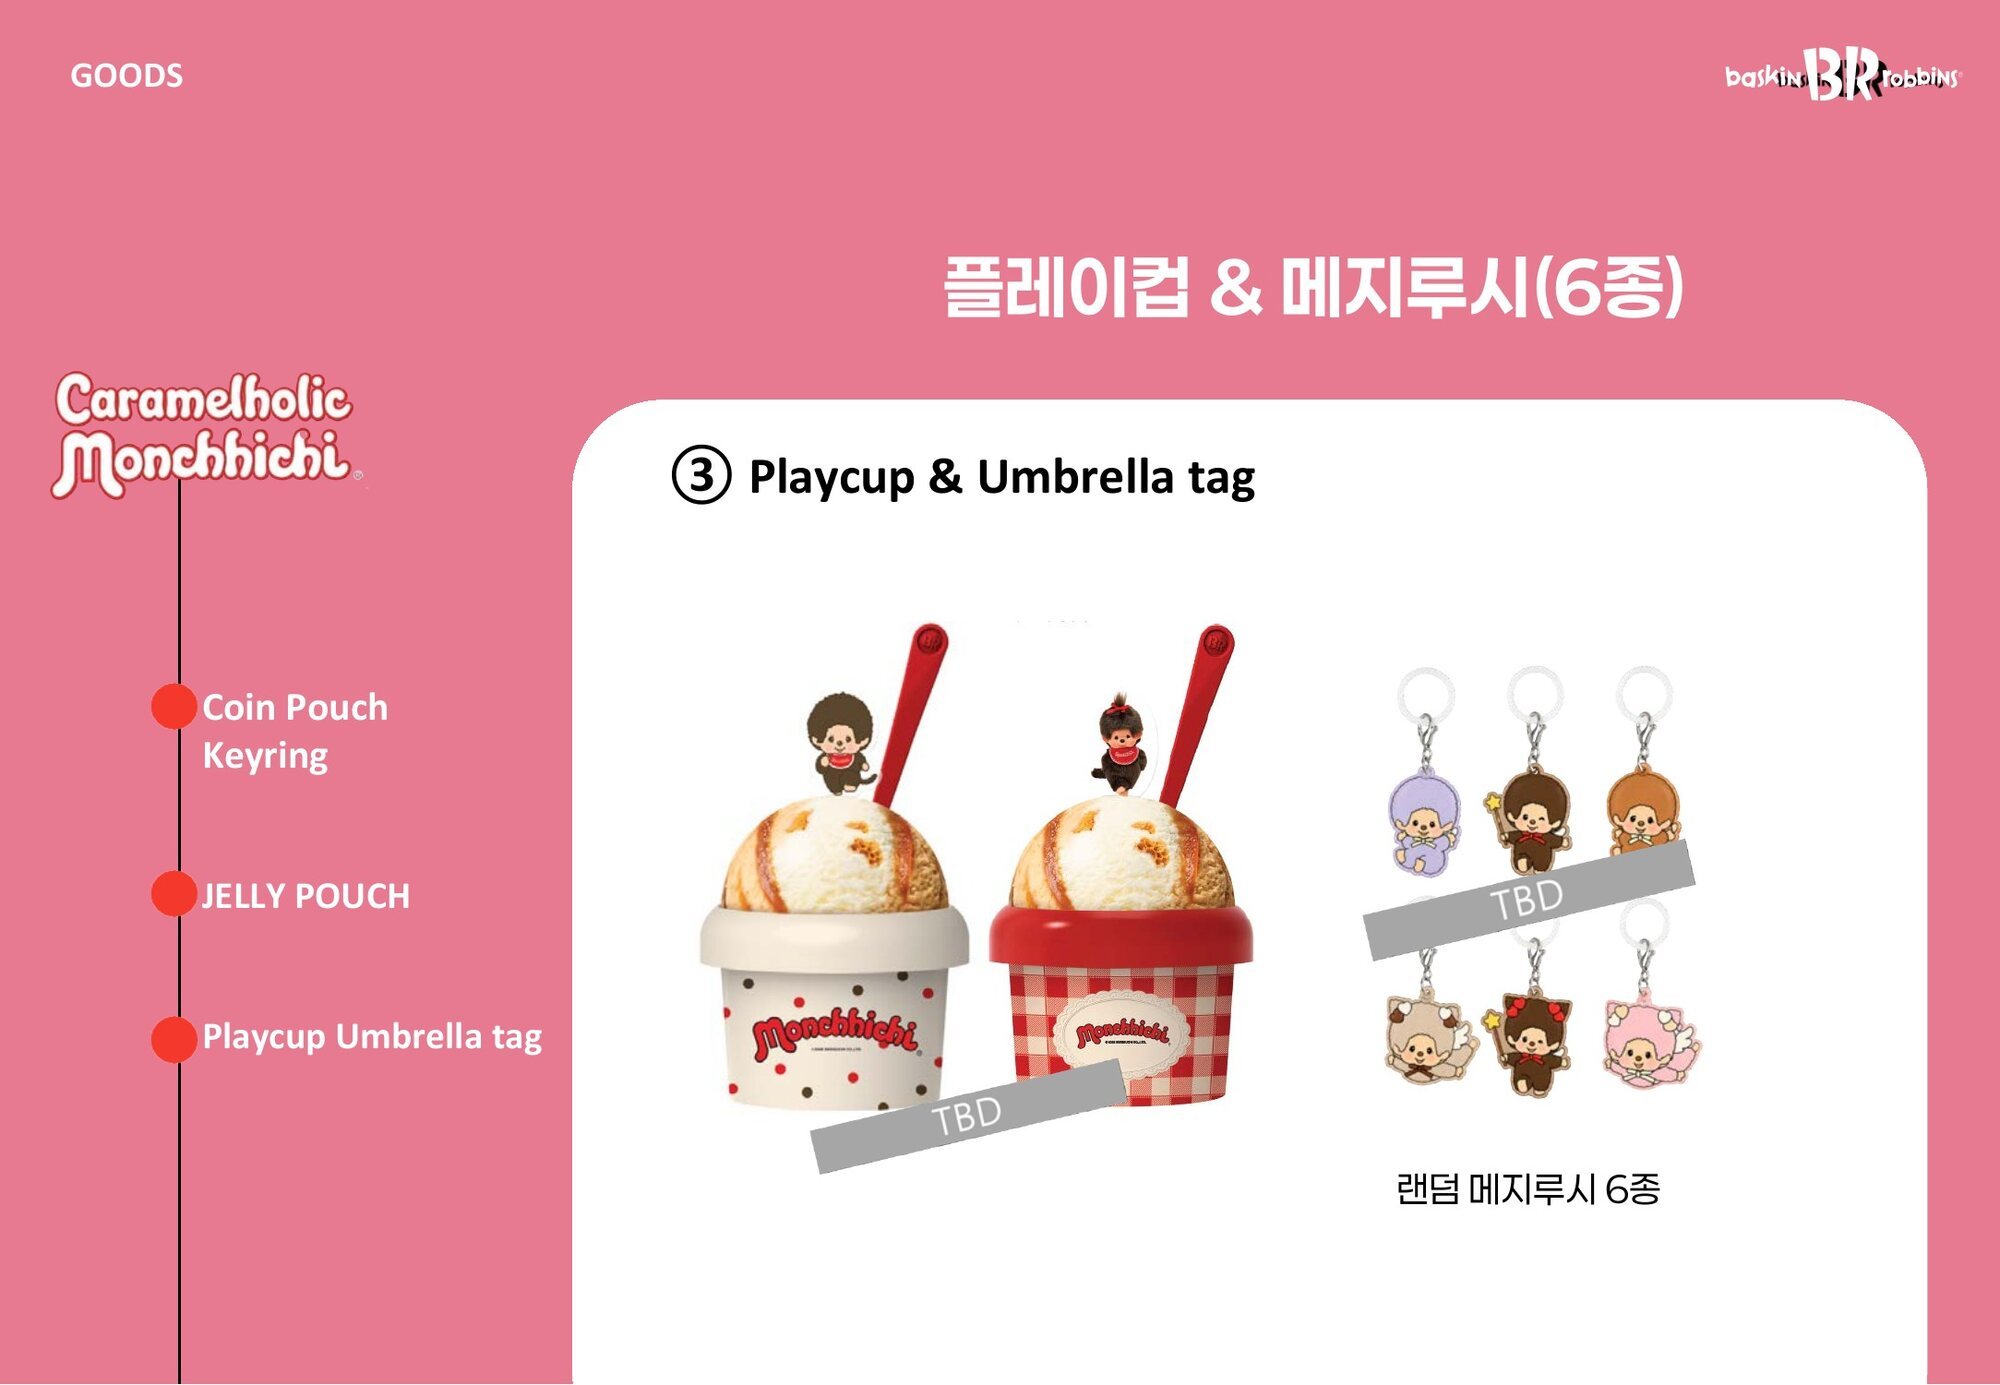
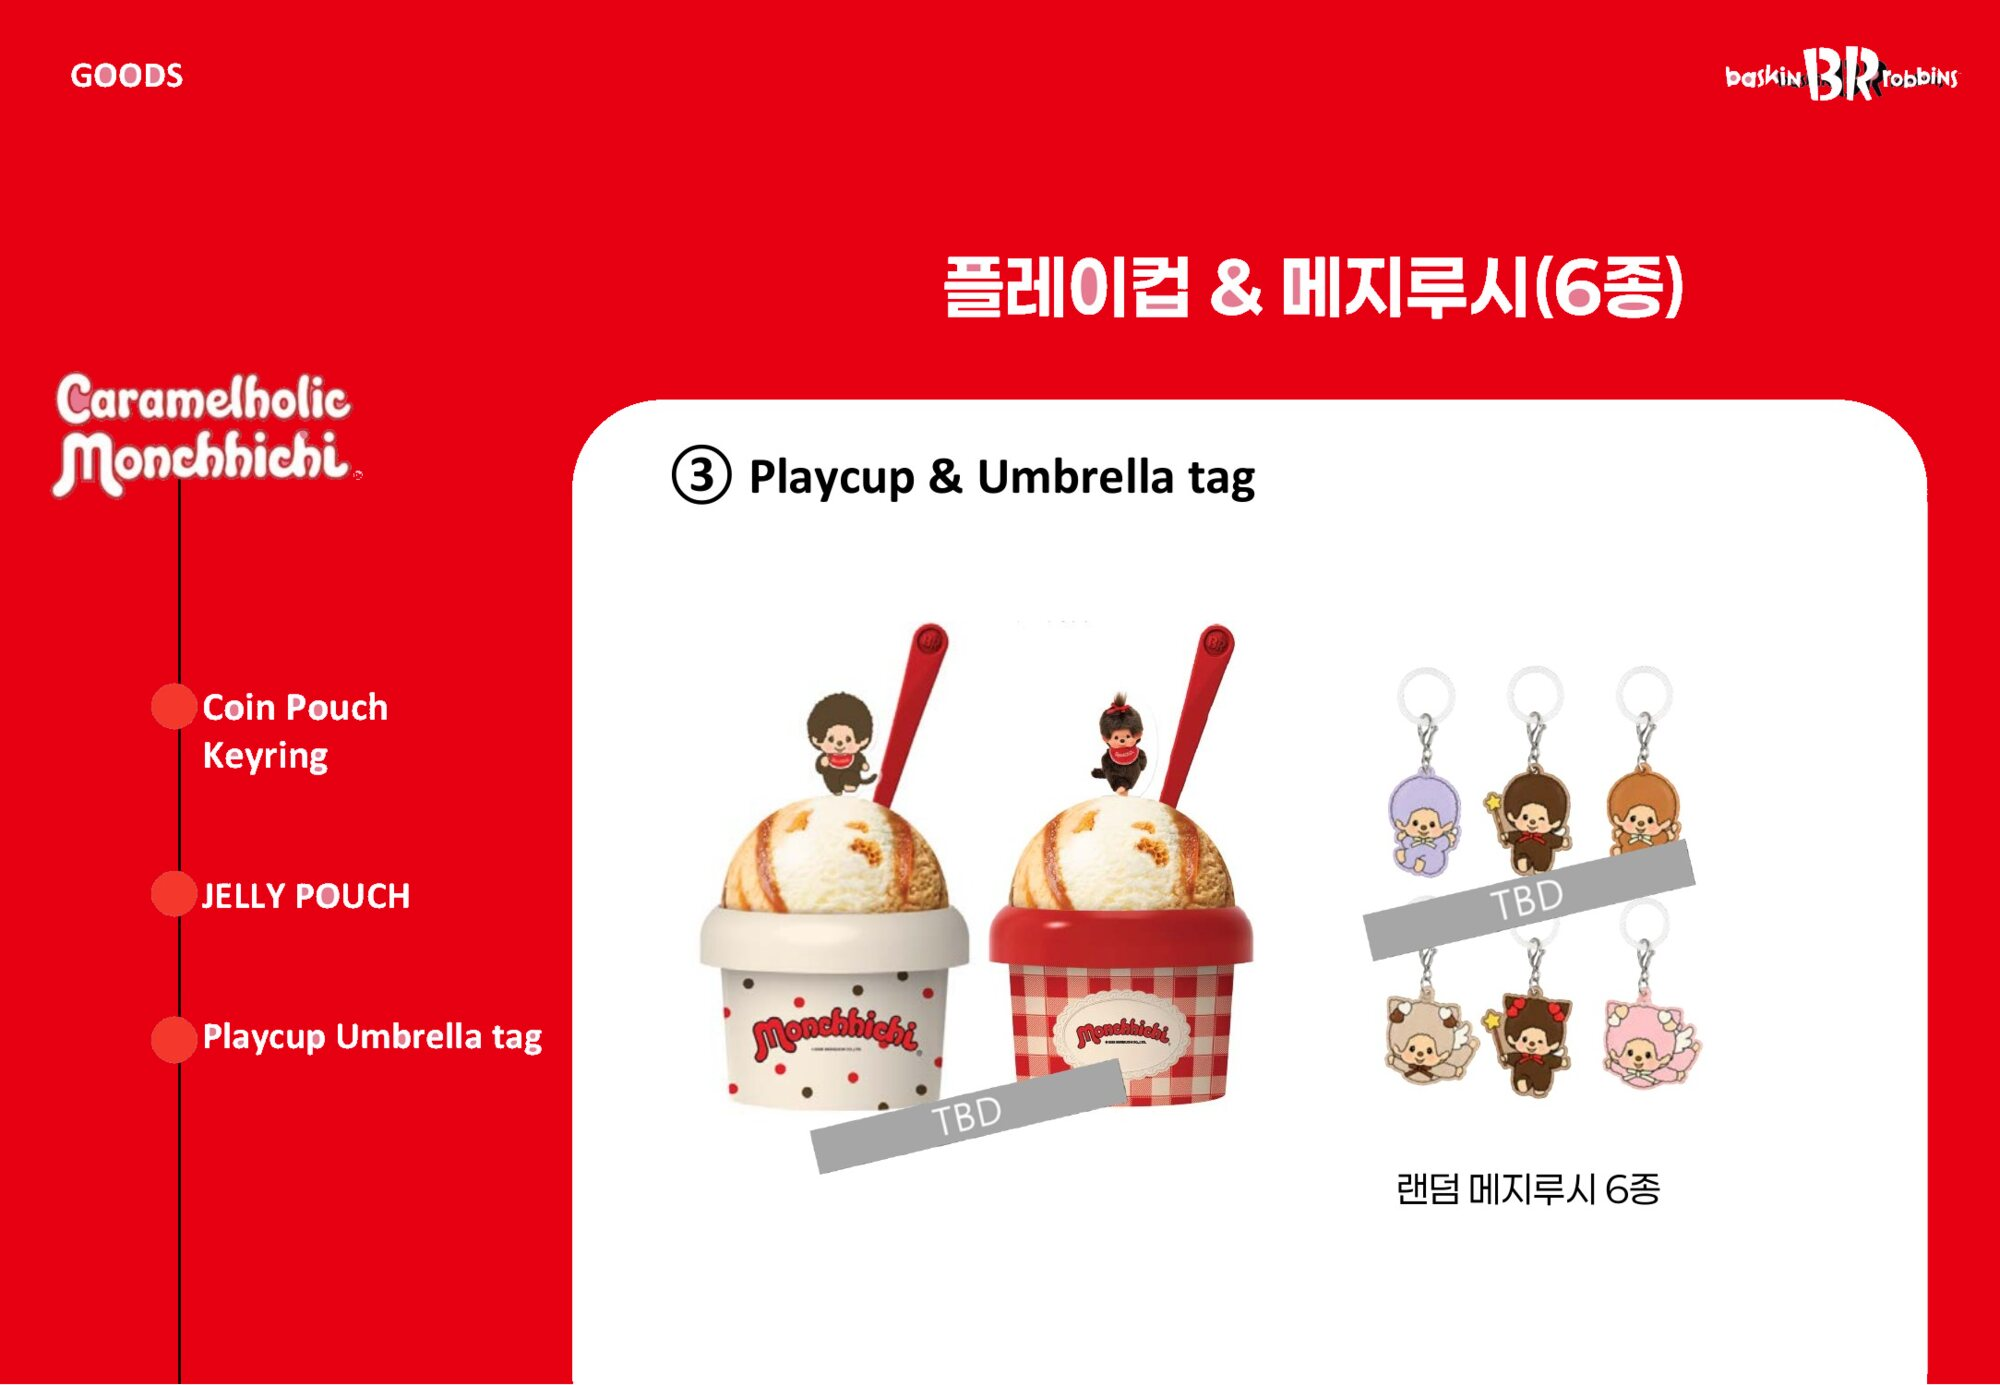
Monchhichi: red slide backgrounds, Monchhichi lockup; clearer campaign-plan badge
- July-deck slides recoloured from pink to the March deck's red (#E70012)
  so every Monchhichi board shares one background.
- Cover lockup is BR × the Monchhichi wordmark (not Caramelholic).
- Case-study covers: 'Campaign plan' reads as a white badge.
- About: drop the 'Fall semester' note on the Sahmyook lecture.

Claude-Session: https://claude.ai/code/session_01VFuQ8EM4aF5hAZF99DJY4M

diff --git a/about.html b/about.html
@@ -56,7 +56,7 @@ html[lang="ko"] .ptext>.ko,html[lang="ko"] .about-body>.ko{display:block}
 <section class="cv">
   <h2 class="sec-title">Experience</h2><div class="cv-list"><div class="cv-row"><span class="mono">2025—</span><span class="cv-org">Baskin-Robbins Korea</span><span class="cv-role">Creative Marketing Team Lead</span></div><div class="cv-row"><span class="mono">2024–2025</span><span class="cv-org">GFFG</span><span class="cv-role">Creative Director</span></div><div class="cv-row"><span class="mono">2022–2023</span><span class="cv-org">The Walt Disney Company</span><span class="cv-role">Creative Manager, APAC</span></div><div class="cv-row"><span class="mono">2020–2022</span><span class="cv-org">IT’S HANBUL</span><span class="cv-role">Creative Director</span></div><div class="cv-row"><span class="mono">2019–2020</span><span class="cv-org">Toun28</span><span class="cv-role">Art Director</span></div><div class="cv-row"><span class="mono">2014–2018</span><span class="cv-org">Mekus Tanager · PWP · KOO LLC</span><span class="cv-role">Designer, United States</span></div></div>
   <h2 class="sec-title">Education</h2><div class="cv-list"><div class="cv-row cv-edu"><span class="cv-org">Harvard University</span><span class="cv-role">Graduate School of Design — Master of Landscape Architecture</span></div><div class="cv-row cv-edu"><span class="cv-org">School of the Art Institute of Chicago</span><span class="cv-role">Master of Architecture</span></div><div class="cv-row cv-edu"><span class="cv-org">Ewha Womans University</span><span class="cv-role">Bachelor of Arts</span></div></div>
-  <h2 class="sec-title">Recognition</h2><div class="cv-list"><div class="cv-row"><span class="mono">2017</span><span class="cv-org">Lexus Design Award — Prototype Winner</span><span class="cv-role">Jury: Paola Antonelli, Toyo Ito. Exhibited at La Triennale di Milano.</span></div><div class="cv-row"><span class="mono">2024</span><span class="cv-org">Seoul Design Award — Honourable Mention</span><span class="cv-role">Seoul, Korea</span></div><div class="cv-row"><span class="mono">2022</span><span class="cv-org">Pyeongtaek Station Plaza Competition — Juror</span><span class="cv-role">Concept, design quality and direction.</span></div><div class="cv-row"><span class="mono">2023</span><span class="cv-org">Sahmyook University — Guest Lecturer</span><span class="cv-role">Fall semester.</span></div></div>
+  <h2 class="sec-title">Recognition</h2><div class="cv-list"><div class="cv-row"><span class="mono">2017</span><span class="cv-org">Lexus Design Award — Prototype Winner</span><span class="cv-role">Jury: Paola Antonelli, Toyo Ito. Exhibited at La Triennale di Milano.</span></div><div class="cv-row"><span class="mono">2024</span><span class="cv-org">Seoul Design Award — Honourable Mention</span><span class="cv-role">Seoul, Korea</span></div><div class="cv-row"><span class="mono">2022</span><span class="cv-org">Pyeongtaek Station Plaza Competition — Juror</span><span class="cv-role">Concept, design quality and direction.</span></div><div class="cv-row"><span class="mono">2023</span><span class="cv-org">Sahmyook University — Guest Lecturer</span><span class="cv-role"></span></div></div>
 </section>
 <section class="cta">
   <p class="cta-lead"><span class="en">For work enquiries, portfolio requests or a conversation.</span><span class="ko">작업 문의, 포트폴리오 요청, 또는 그냥 대화.</span></p>

diff --git a/work/monchhichi.html b/work/monchhichi.html
@@ -10,7 +10,7 @@
 <link href="https://fonts.googleapis.com/css2?family=Inter+Tight:wght@300;400;500;900&family=Noto+Sans+KR:wght@300;400;500&family=Gothic+A1:wght@700;800;900&family=Bowlby+One&family=Caveat:wght@500&display=swap" rel="stylesheet">
 <link rel="stylesheet" href="../assets/style.css?v=36">
 <link href="../assets/motion.css?v=22" rel="stylesheet"/>
-<link href="../assets/case.css?v=39" rel="stylesheet"/>
+<link href="../assets/case.css?v=40" rel="stylesheet"/>
 <script>
 if(!localStorage.getItem("aw_unlocked"))document.documentElement.className+=" gated";
 document.documentElement.lang=localStorage.getItem("aw_lang")||"en";
@@ -42,7 +42,7 @@ html[lang="ko"] .ptext>.ko,html[lang="ko"] .about-body>.ko{display:block}
 <section class="win cs-cover cv-left cv-mon" style="--num:#E77A91" aria-labelledby="cs-title">
   <div class="cv-art"><img src="../assets/img/monchhichi/cover-friends.jpg" alt="Monchhichi and friends dressed as Baskin-Robbins flavours on a flower meadow" decoding="async"/></div>
   <span class="cv-num" aria-hidden="true"></span>
-  <div class="cv-title"><div class="cv-lock"><img class="cv-br" src="../assets/img/logos/br.png" alt="" /><span class="cv-x" aria-hidden="true">×</span><img class="cv-ip" src="../assets/img/monchhichi/logo.png" alt="" /></div><p class="cv-k"><span class="en">September campaign plan</span><span class="ko">9월 캠페인 기획안</span></p><h1 class="cv-h sr" id="cs-title">Baskin-Robbins × Monchhichi</h1><p class="cv-d"><span class="en">July 2026 · Baskin-Robbins Korea</span><span class="ko">2026.7 · 배스킨라빈스 코리아</span></p></div>
+  <div class="cv-title"><div class="cv-lock"><img class="cv-br" src="../assets/img/logos/br.png" alt="" /><span class="cv-x" aria-hidden="true">×</span><img class="cv-ip" src="../assets/img/monchhichi/monchhichi-logo.png" alt="" /></div><p class="cv-k"><span class="en">Campaign plan · September 2026</span><span class="ko">캠페인 기획안 · 2026년 9월</span></p><h1 class="cv-h sr" id="cs-title">Baskin-Robbins × Monchhichi</h1><p class="cv-d"><span class="en">July 2026 · Baskin-Robbins Korea</span><span class="ko">2026.7 · 배스킨라빈스 코리아</span></p></div>
   
 </section>
 <section class="win cs-intro">

diff --git a/assets/case.css b/assets/case.css
@@ -619,3 +619,15 @@ html[lang="ko"] .cv-h .ko, .cv-h .ko { font-family: "Gothic A1", "Noto Sans KR",
 .cs-cover.cv-mon .cv-lock .cv-br { width: clamp(8rem, 15vw, 14rem); }
 .cs-cover.cv-mon .cv-lock .cv-ip { width: clamp(9rem, 19vw, 17rem); }
 @media (max-width: 700px) { .cs-cover.cv-mon .cv-lock .cv-br { width: 34vw; } .cs-cover.cv-mon .cv-lock .cv-ip { width: 40vw; } }
+
+/* covers: "campaign plan" reads as a clear badge, not a whisper */
+.cs-cover .cv-title:has(.cv-lock) .cv-k {
+  display: inline-block; align-self: flex-start; padding: .45rem 1rem; border-radius: 999px;
+  background: #fff; color: var(--ink); text-shadow: none; opacity: 1;
+  font: 700 clamp(0.95rem, 1.5vw, 1.25rem)/1.1 "Inter Tight", var(--body); letter-spacing: .01em;
+  box-shadow: 3px 3px 0 var(--ink); border: 1.5px solid var(--ink);
+}
+.cs-cover.cv-right .cv-title:has(.cv-lock) .cv-k { align-self: flex-end; }
+.cs-cover .cv-title:has(.cv-lock) .cv-d { font-size: clamp(0.85rem, 1.2vw, 1.05rem); opacity: 1; font-weight: 500; }
+.cs-cover.cv-mon .cv-lock .cv-ip { width: clamp(9rem, 18vw, 16rem); filter: drop-shadow(0 4px 10px rgba(80,40,120,.35)); }
+@media (max-width: 700px) { .cs-cover.cv-right .cv-title:has(.cv-lock) .cv-k { align-self: flex-start; } }

diff --git a/work/baskin-robbins-popup.html b/work/baskin-robbins-popup.html
@@ -10,7 +10,7 @@
 <link href="https://fonts.googleapis.com/css2?family=Inter+Tight:wght@300;400;500;900&family=Noto+Sans+KR:wght@300;400;500&family=Gothic+A1:wght@700;800;900&family=Bowlby+One&family=Caveat:wght@500&display=swap" rel="stylesheet">
 <link rel="stylesheet" href="../assets/style.css?v=36">
 <link href="../assets/motion.css?v=22" rel="stylesheet"/>
-<link href="../assets/case.css?v=39" rel="stylesheet"/>
+<link href="../assets/case.css?v=40" rel="stylesheet"/>
 <script>
 if(!localStorage.getItem("aw_unlocked"))document.documentElement.className+=" gated";
 document.documentElement.lang=localStorage.getItem("aw_lang")||"en";

diff --git a/work/one-piece-adventure.html b/work/one-piece-adventure.html
@@ -10,7 +10,7 @@
 <link href="https://fonts.googleapis.com/css2?family=Inter+Tight:wght@300;400;500;900&family=Noto+Sans+KR:wght@300;400;500&family=Gothic+A1:wght@700;800;900&family=Bowlby+One&family=Caveat:wght@500&display=swap" rel="stylesheet">
 <link rel="stylesheet" href="../assets/style.css?v=36">
 <link href="../assets/motion.css?v=22" rel="stylesheet"/>
-<link href="../assets/case.css?v=39" rel="stylesheet"/>
+<link href="../assets/case.css?v=40" rel="stylesheet"/>
 <script>
 if(!localStorage.getItem("aw_unlocked"))document.documentElement.className+=" gated";
 document.documentElement.lang=localStorage.getItem("aw_lang")||"en";

diff --git a/work/pokemon-ditto.html b/work/pokemon-ditto.html
@@ -10,7 +10,7 @@
 <link href="https://fonts.googleapis.com/css2?family=Inter+Tight:wght@300;400;500;900&family=Noto+Sans+KR:wght@300;400;500&family=Gothic+A1:wght@700;800;900&family=Bowlby+One&family=Caveat:wght@500&display=swap" rel="stylesheet">
 <link rel="stylesheet" href="../assets/style.css?v=36">
 <link href="../assets/motion.css?v=22" rel="stylesheet"/>
-<link href="../assets/case.css?v=39" rel="stylesheet"/>
+<link href="../assets/case.css?v=40" rel="stylesheet"/>
 <script>
 if(!localStorage.getItem("aw_unlocked"))document.documentElement.className+=" gated";
 document.documentElement.lang=localStorage.getItem("aw_lang")||"en";

diff --git a/work/toy-story-lets-play.html b/work/toy-story-lets-play.html
@@ -10,7 +10,7 @@
 <link href="https://fonts.googleapis.com/css2?family=Inter+Tight:wght@300;400;500;900&family=Noto+Sans+KR:wght@300;400;500&family=Gothic+A1:wght@700;800;900&family=Bowlby+One&family=Caveat:wght@500&display=swap" rel="stylesheet">
 <link rel="stylesheet" href="../assets/style.css?v=36">
 <link href="../assets/motion.css?v=22" rel="stylesheet"/>
-<link href="../assets/case.css?v=39" rel="stylesheet"/>
+<link href="../assets/case.css?v=40" rel="stylesheet"/>
 <script>
 if(!localStorage.getItem("aw_unlocked"))document.documentElement.className+=" gated";
 document.documentElement.lang=localStorage.getItem("aw_lang")||"en";
